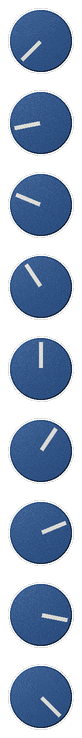
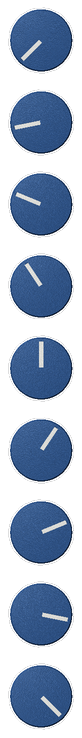
One viewer, one eye: every knob gets its own angle
A panel has one person looking at it, not eleven cameras. A knob away from the
centre of that view is genuinely seen off its own axis - the ones at the top
from slightly below, the ones at the bottom from slightly above, and the same
left to right. Rendering all eleven dead-on is what makes a panel look printed
rather than built.

The angle is derived, not authored: it is the direction from each knob to a
single eye point in front of the middle of the panel. That comes out at +0.85
degrees on the HF row, -1.01 on LF, and about half a degree of sideways lean
between the two columns, which is roughly the "-1 at the top, +1 at the bottom"
Ronald asked for but consistent by construction rather than by hand.

The camera aims at each knob's BASE rather than its top. That matters: the base
is where the thing is bolted to the panel, so it stays exactly where the art
paints it and only the body leans. Aiming at the top would have swung the
mounting point around instead, and the alignment work of the last few commits
would have been undone.

VIEWER_DISTANCE is in original-art pixels; raise it for a more distant viewer
and a flatter panel, lower it for more lean. 32000 is about a degree at the
extremes - enough to read as depth, not enough to look like a lens.

diff --git a/tools/make-assets.py b/tools/make-assets.py
@@ -61,6 +61,19 @@ FREQ_STEPS = STEPS
 # is the flutes plus an over-simple environment.
 SUPERSAMPLE = 2
 
+# One viewer, one eye, in front of the middle of the panel. A knob away from
+# that centre is genuinely seen off its own axis - the ones at the top looked at
+# slightly from below, the ones at the bottom from slightly above, and the same
+# left to right. Rendering all eleven dead-on is what makes a panel look printed.
+#
+# The camera aims at each knob's BASE, so the mounting stays exactly where the
+# art paints it and only the body leans. Distance is in original-art pixels;
+# larger means a more distant viewer and a flatter panel. 32000 puts about one
+# degree on the outermost knobs, which is enough to read as depth and not enough
+# to look like a fisheye.
+VIEWER_DISTANCE = 32000.0
+PANEL_EYE = (512.0, 768.0)      # where the viewer is centred, in art pixels
+
 CAP_SATURATION = 1.30   # how far past the painted colour the caps are pushed
 
 # Caps that do NOT come from the art. The panel paints HPF and LPF a warm cream,
@@ -244,14 +257,16 @@ def main():
         # and the cap covers R_CAP of that. Divide back out rather than carry a
         # separate fudge factor - this is why BODY_OVER_RING is gone.
         r_px = (cap_r * scale) / knob3d.R_CAP
-        probe, off = knob3d.render_at(r_px, 0.0, cap, ss=SUPERSAMPLE)
+        view = ((PANEL_EYE[0] - cx) / VIEWER_DISTANCE,
+                (PANEL_EYE[1] - cy) / VIEWER_DISTANCE)
+        probe, off = knob3d.render_at(r_px, 0.0, cap, ss=SUPERSAMPLE, view=view)
         fd = probe.size[0]
 
         strip = Image.new('RGBA', (fd, fd * steps), (0, 0, 0, 0))
         step = SWEEP / (steps - 1)
         for i in range(steps):
             angle = -SWEEP / 2 + i * step        # frame 0 = min = -135 deg
-            frame = probe if i == 0 and False else knob3d.render_at(r_px, angle, cap, ss=SUPERSAMPLE)[0]
+            frame = probe if i == 0 and False else knob3d.render_at(r_px, angle, cap, ss=SUPERSAMPLE, view=view)[0]
             strip.paste(frame, (0, i * fd), frame)
         strip.save(os.path.join(OUT, f'knob_{name}.png'))
 
@@ -260,7 +275,8 @@ def main():
         layout['knobs'][name] = dict(origin=[ox, oy], size=[fd, fd],
                                      frames=steps, tag=tag)
         print(f'knob_{name}.png  {fd}x{fd} x{steps} frames  '
-              f'origin=({ox},{oy})  painted{painted} -> albedo{cap}  {tag}')
+              f'origin=({ox},{oy})  tilt=({math.degrees(math.atan(view[0])):+.2f},'
+              f'{math.degrees(math.atan(view[1])):+.2f}) deg  {tag}')
 
     for tag, (x0, y0, x1, y1) in METERS.items():
         ox, oy = int(round(x0 * scale)) + METER_INSET, int(round(y0 * scale))
